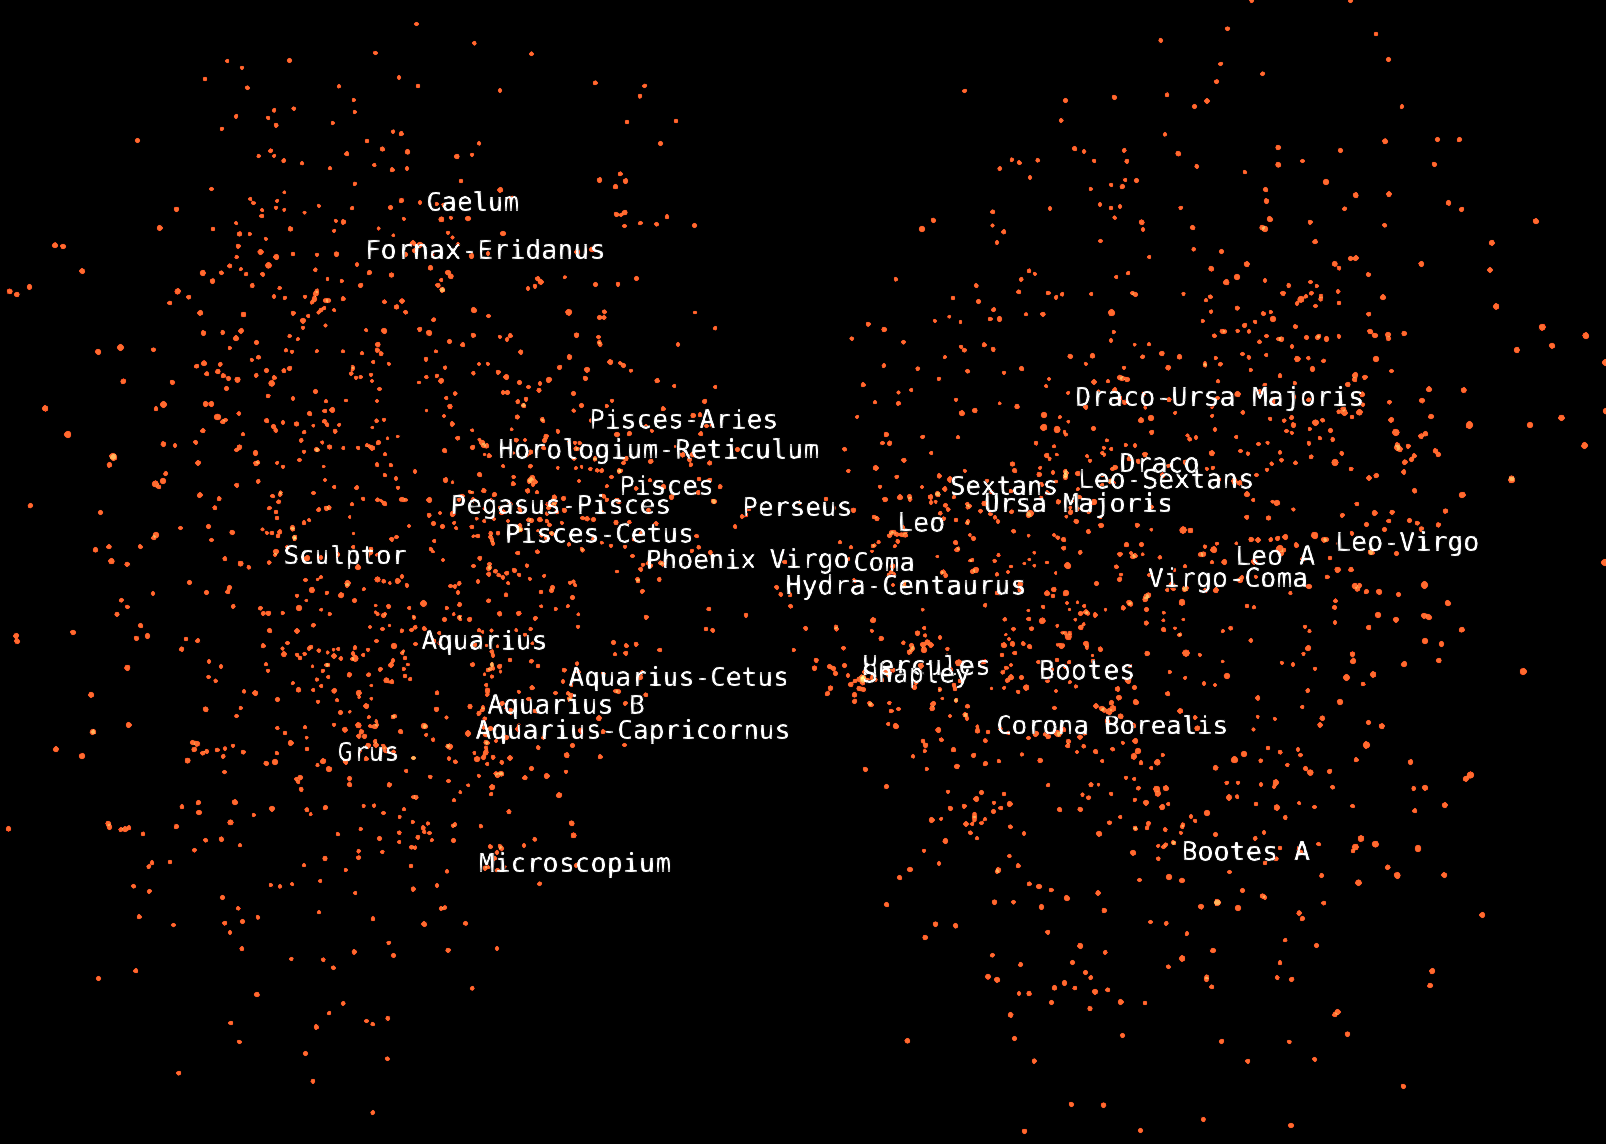
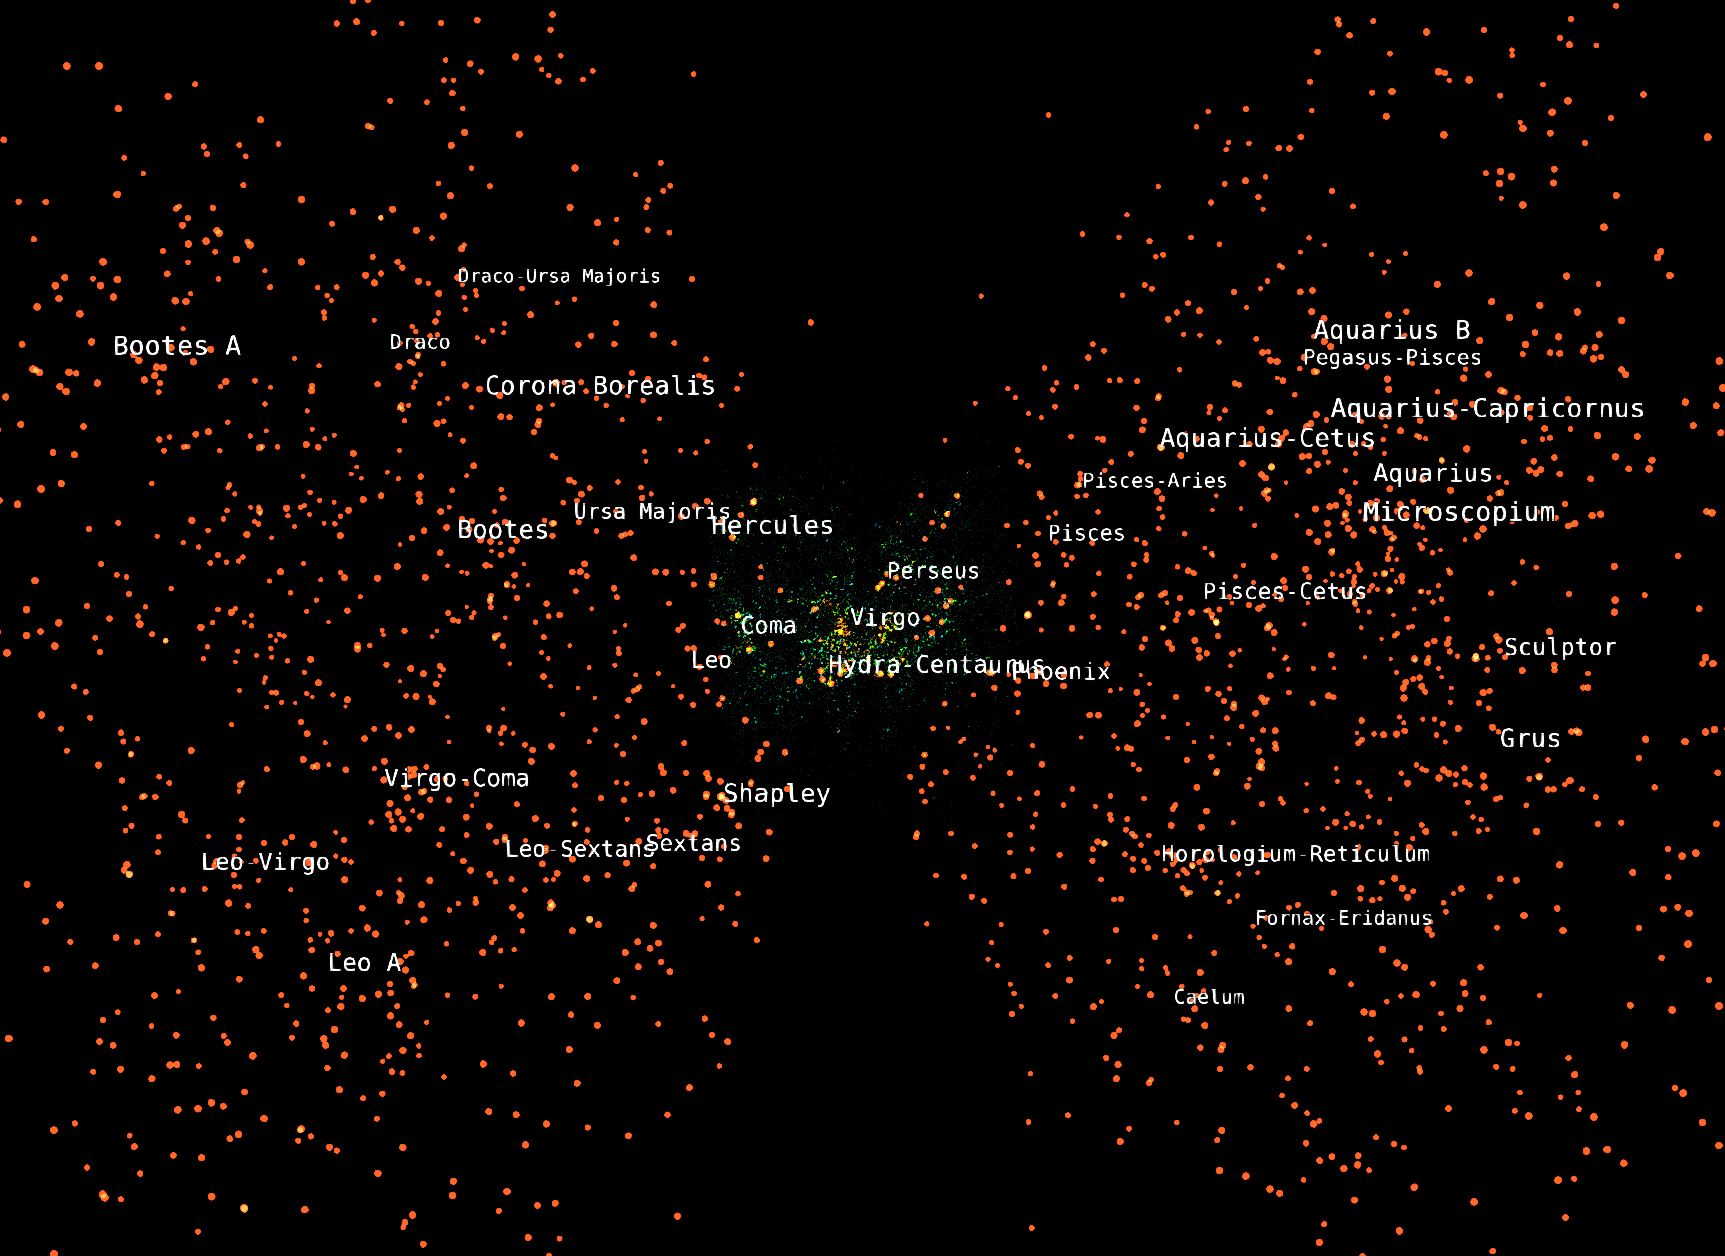
First draft of Abell and Supercluster labels.

diff --git a/content/universe/deep-sky-surveys/abell-galaxy-clusters/index.md b/content/universe/deep-sky-surveys/abell-galaxy-clusters/index.md
@@ -10,24 +10,53 @@ authors:
 {menuselection}`Universe --> Deep Sky Surveys --> Abell Galaxy Clusters`
 
 
+The Abell Galaxy Clusters are rich clusters of galaxies akin to the Virgo Cluster. Each point in this data set contains tens to hundreds of galaxies. A handful of these Abell clusters overlap with the Tully Galaxies, but most are outside Tully.
+
 
 
 :::{figure} abell_labels.png
 :align: left
-:alt: 
+:alt: A close-up of the Abell Clusters as a distribution of orange points with select labels.
+
+A close-up of the Abell Galaxy Clusters, in orange. Select labels are shown with the prefix "ACO," for Abell, Corwin, and Olowin, who released the final catalogue which included the southern hemisphere.
 :::
+
+
+## The catalog
+
+The Abell Catalog was compiled by George Abell (1927--1983) from the Palomar Sky Survey plates. He published the catalog in 1958, and a southern hemisphere survey was posthumously published in 1989 by Harold Corwin (b.1943) and Ronald Olowin (1945--2017). Further analysis by Brent Tully (b. 1943) determined
+their distance and three-dimensional distribution. 
+
+The distribution of Abell Clusters echoes that of the Tully Galaxies with two lobes on either side of the plane of the Milky Way. There is a completeness cut-off that makes the data set look squared off.
+
+Labels with the prefix "ACO" (for Abell, Corwin, Olowin) are present on each point. They are designed to show only when points come into the foreground.
 
 
 
 :::{figure} abell+tully.png
 :align: left
-:alt: 
+:alt: The Abell Clusters plotted with the Tully galaxies.
+
+The Abell Clusters, in orange, shown with the Tully galaxies in the center in aqua, green and yellow. Within Tully, we see the rich structure with many individual galaxies visible. The Abell Clusters are akin to removing all the individual galaxies and seeing only the large clusters like the Virgo Cluster. Structure is lost because we're only seeing the nexus points of the existing structure.
 :::
+
+
+## Large-scale structure?
+
+The Abell Galaxy Clusters show no prominent structure because we are only seeing the nexus points of structure---the large galaxy clusters. There are roughly 30 Abell Clusters within the Tully Galaxies, so this is a case if reducing 30,000 galaxies down to about 30 points. So we do not see the galaxy filaments, the details of each cluster, or the lower-level groups of galaxies that form the large-scale structure of the universe.
+
+
+## Superclusters
+
+Galaxy clusters cluster themselves form superclusters---clusters of galaxy clusters. We can turn on the labels for these in {menuselection}`Universe --> Deep Sky Surveys --> Supercluster Labels` to see where the major superclusters align with the Abell Clusters. We will discuss superclusters more in [Supercluster Labels](../supercluster-labels/index).
+
 
 
 :::{figure} abell_supercluster_labels.png
 :align: left
-:alt: 
+:alt: The Tully Galaxies at center, surrounded by the Abell Galaxy Clusters in orange, and the Supercluster Labels.
+
+The Abell Galaxy Clusters shown with the Supercluster Labels on and the faint Tully Galaxies in the center. In most cases, multiple Abell Clusters comprise one Supercluster. We can see this on the outskirts of the Tully Galaxies where the Hydra-Centaurus and Perseus superclusters are made up of many Abell Clusters.
 :::
 
 
@@ -43,15 +72,15 @@ authors:
 :class: full-width
 
 * - **Census:**
-  - 161 clusters
+  - 2,246 galaxy clusters
 * - **Asset Version:**
-  - 3.1
+  - 3.0
 * - **Data Version:**
-  - 4.07
+  - 1.03
 * - **Reference:**
-  - [Gaia EDR3 view on Galactic globular clusters](https://doi.org/10.1093/mnras/stab1475)
+  - [A Catalog of Rich Clusters of Galaxies](https://doi.org/10.1086%2F191333); private communication, Brent Tully
 * - **Prepared by:**
-  - Brian Abbott, Zack Reeves (AMNH)
+  - Stuart Levy (NCSA), Brian Abbott (AMNH)
 * - **License:**
   - ??? - link to a page?
 :::

diff --git a/content/universe/deep-sky-surveys/supercluster-labels/index.md b/content/universe/deep-sky-surveys/supercluster-labels/index.md
@@ -10,24 +10,44 @@ authors:
 {menuselection}`Universe --> Deep Sky Surveys --> Supercluster Labels`
 
 
+Galaxy clusters, like the nearby Virgo Cluster, form into larger structures called superclusters. Many galaxy clusters can compose one supercluster. In this data set, we provide labels for the locations of these superclusters.
 
 
 :::{figure} scl_nearby.png
 :align: left
-:alt: 
+:alt: A view of the Tully Galaxies with the Supercluster Labels turned on.
+
+The supercluster labels within the Tully Galaxies. These include the Virgo Supercluster (of which we are members), the Hydra-Centaurus Supercluster, and the farther off Perseus, Hercules, and Coma superclusters.
 :::
 
+
+:::{note}
+The Supercluster Labels are intended to be viewed with the galaxy surveys (Tully, 2dF, Sloan) and the Abell Galaxy Clusters.
+:::
+
+
+## What is a supercluster?
+
+Superclusters are among the largest structural elements in the universe. They are composed of galaxy clusters, and the substructures around them. Astronomers estimate there are around 10 million superclusters in the {term}`observable universe`. The Milky Way belongs to the Virgo Supercluster, which is centered around the Virgo Cluster, and the Virgo Supercluster is, in turn, part of the Laniakea Supercluster which is part of the larger Pisces–Cetus Supercluster Complex.
+
+Superclusters are typically not gravitationally bound to each other. They can also form higher-order structures like walls, sheets, and filaments. These super structures are separated by vast voids and create the weblike structure of the cosmos.
+
+Galaxy clusters are on the order of millions of light years across---the Virgo Cluster is about 15 million light ears in diameter. Superclusters are on the order of tens to hundreds of millions of light years across---the Virgo Supercluster is 110 million light years across, while the Laniakea Supercluster is 520 million light years across. Walls and filaments can be upwards of billions of light years across---the Pisces–Cetus Supercluster Complex is believed to be about 1 billion light years in its longest dimension. 
 
 
 :::{figure} scl+galaxysurveys.png
 :align: left
-:alt: 
+:alt: Supercluster labels seen with a variety of galaxy surveys.
+
+The Supercluster Labels with several galaxy surveys, including Tully, 2dF, and Sloan galaxies.
 :::
 
 
 :::{figure} scl+abell+tully.png
 :align: left
-:alt: 
+:alt: Supercluster Labels with the multicolored Tully Galaxies at center and the Abell Galaxy C;lusters in orange.
+
+Supercluster Labels with the multicolored Tully Galaxies at center and the Abell Galaxy C;lusters in orange.
 :::
 
 

diff --git a/glossary/astronomical-glossary/index.md b/glossary/astronomical-glossary/index.md
@@ -20,6 +20,10 @@ Lookback time
     Lookback time is the difference between when we detect the light from an object here on Earth versus when the light was emitted by the object. Because the universe is expanding, and spacetime can expand faster than the speed of light (matter cannot, but the intervening fabric of spacetime can), it produces a discrepancy between how far an object was when its light left versus how far it actually is at this moment. The lookback time tells us when the light left the object.
 
 
+Observable universe
+    Definition.
+
+
 Redshift/blueshift
     Redshift refers to the shifting of light as the source moves away from the observer. It is the light equivalent of the Doppler shift in sound when, for example, a train's sound changes as it approaches you and recedes from you. We use redshift in astronomy to calculate the distance to objects outside the Milky Way. Almost all objects outside the Galaxy are moving away from us as the universe expands, and we can measure the shift of light in the spectral lines of a galaxy, and once we know that shift in wavelength, we can compute its distance. If the object is moving away from us, the light is shifted toward the red in the electromagnetic spectrum, and if the object is moving toward us, the light is shifted toward the blue end of the spectrum.
 
